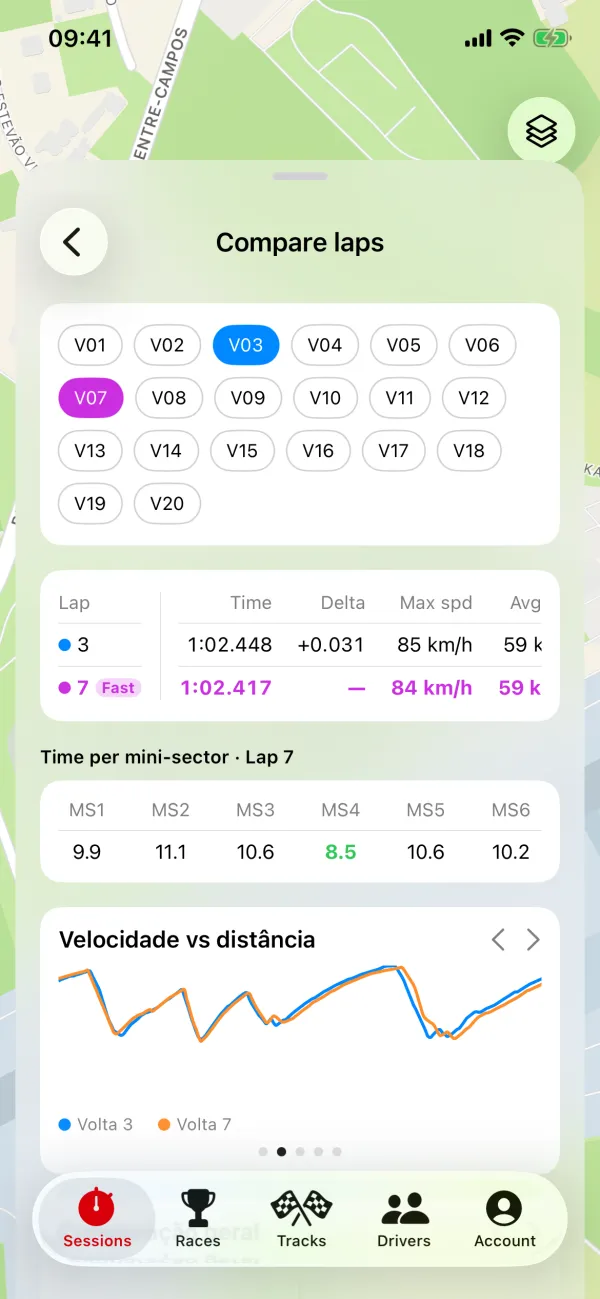
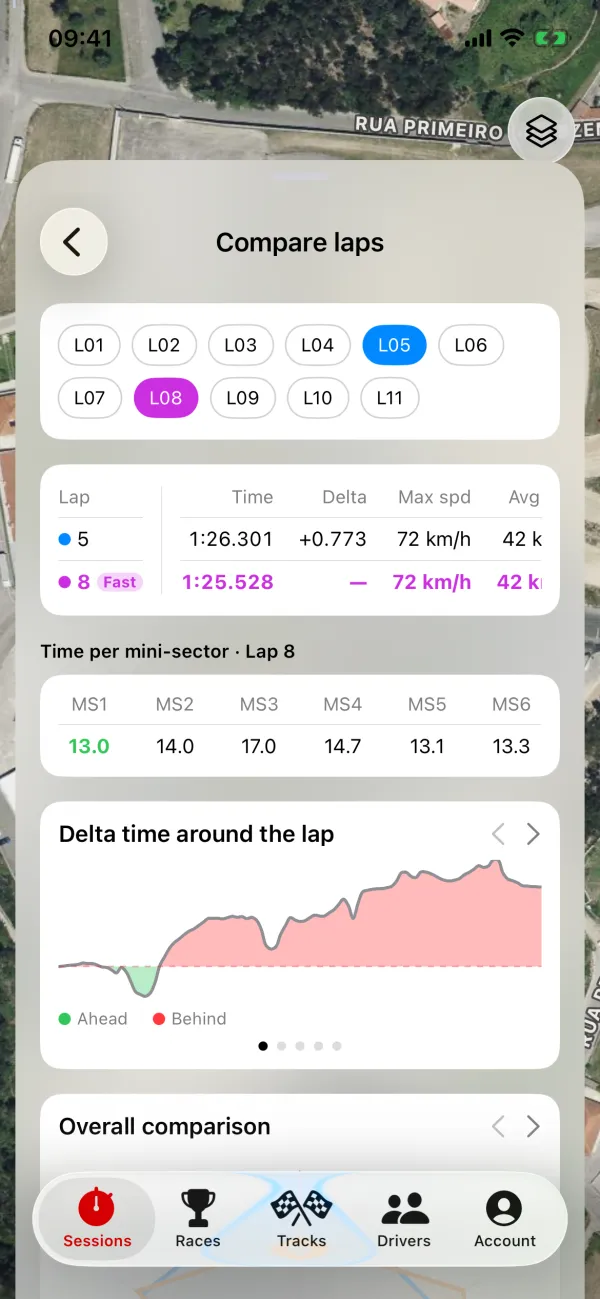
Capturas da sessao GoPro de Baltar, em ingles, e uma seccao de video

diff --git a/index.html b/index.html
@@ -61,7 +61,7 @@
 
       <div class="phone ios">
         <div class="screen">
-          <img src="screenshots/compare-laps.webp" alt="" width="600" height="1299">
+          <img src="screenshots/video.webp" alt="" width="600" height="1299">
         </div>
       </div>
     </div>
@@ -98,7 +98,24 @@
     <div class="visual" aria-hidden="true">
       <div class="phone ios solo">
         <div class="screen">
-          <img src="screenshots/lap-table.webp" alt="" loading="lazy" width="600" height="1299">
+          <img src="screenshots/compare-laps.webp" alt="" loading="lazy" width="600" height="1299">
+        </div>
+      </div>
+    </div>
+  </div>
+</section>
+
+<section class="feature">
+  <div class="container">
+    <div class="copy">
+      <h2>Onboard video</h2>
+      <h3>Watch the lap, with the data on top.</h3>
+      <p>Your GoPro footage plays in sync with the telemetry: speed, the running gap, how far you are from the ideal line and where you are on the track map, frame by frame. Put two laps side by side and see the exact moment one of them starts pulling away.</p>
+    </div>
+    <div class="visual" aria-hidden="true">
+      <div class="phone ios solo">
+        <div class="screen">
+          <img src="screenshots/video-compare.webp" alt="" loading="lazy" width="600" height="1299">
         </div>
       </div>
     </div>
